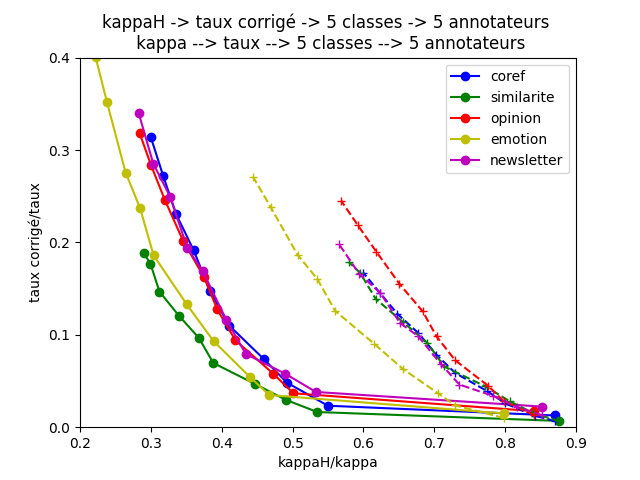
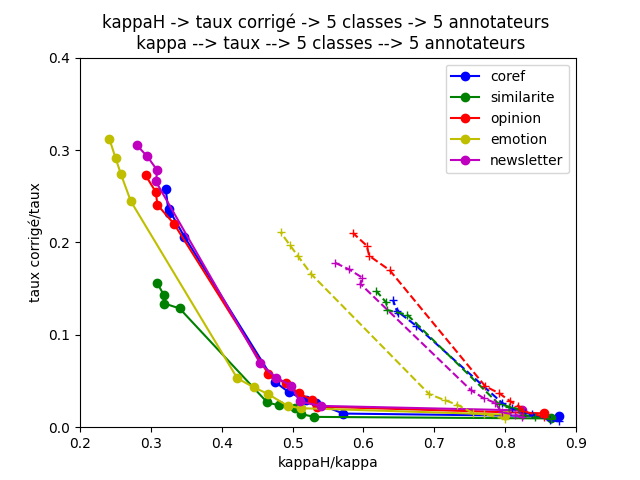
graphiques de comparaison avec focus

diff --git a/simulation_sur_distri_reelles_2021_05.cpp b/simulation_sur_distri_reelles_2021_05.cpp
@@ -630,7 +630,7 @@ int main(int n,char * param[]) {
     //float TabtauxErparAnnot[12]={0.05,0.1,0.15,0.2,0.25,0.3,0.35,0.4,0.45,0.5,0.6,0.7};
     int nbtests = 10;
     //float TabtauxErparAnnot[] = {0.075, 0.1, 0.125, 0.15, 0.175, 0.2, 0.25, 0.3, 0.35, 0.4};
-    float TabtauxErparAnnot[] = {0.075, 0.1, 0.125, 0.15, 0.175, 0.2, 0.225, 0.25, 0.275, 0.3};
+    float TabtauxErparAnnot[] = {0.075, 0.085, 0.095, 0.105, 0.115, 0.125, 0.235, 0.245, 0.255, 0.265};
     float moymtauxErRef[nbtests], moysigmatauxErRef[nbtests], moymtauxconf[nbtests], moyalpha[nbtests], moyalphaconf[nbtests], moykappa[nbtests], moycos_uniforme[nbtests], moydistri_hasard[nbtests], moydistance_distri_hasard[nbtests], distancemoytaux_distri_hasard[nbtests];
     serie_expes(args[c], nbtests,nb, nbG, Ref, nbIt, nbC, TE, TEIt, nbA, TabtauxErparAnnot, sigmatauxEr, choix1, choix2,moymtauxErRef, moysigmatauxErRef, moymtauxconf, moyalpha, moyalphaconf, moykappa, moycos_uniforme, moydistri_hasard, moydistance_distri_hasard, distancemoytaux_distri_hasard);
     c++;
